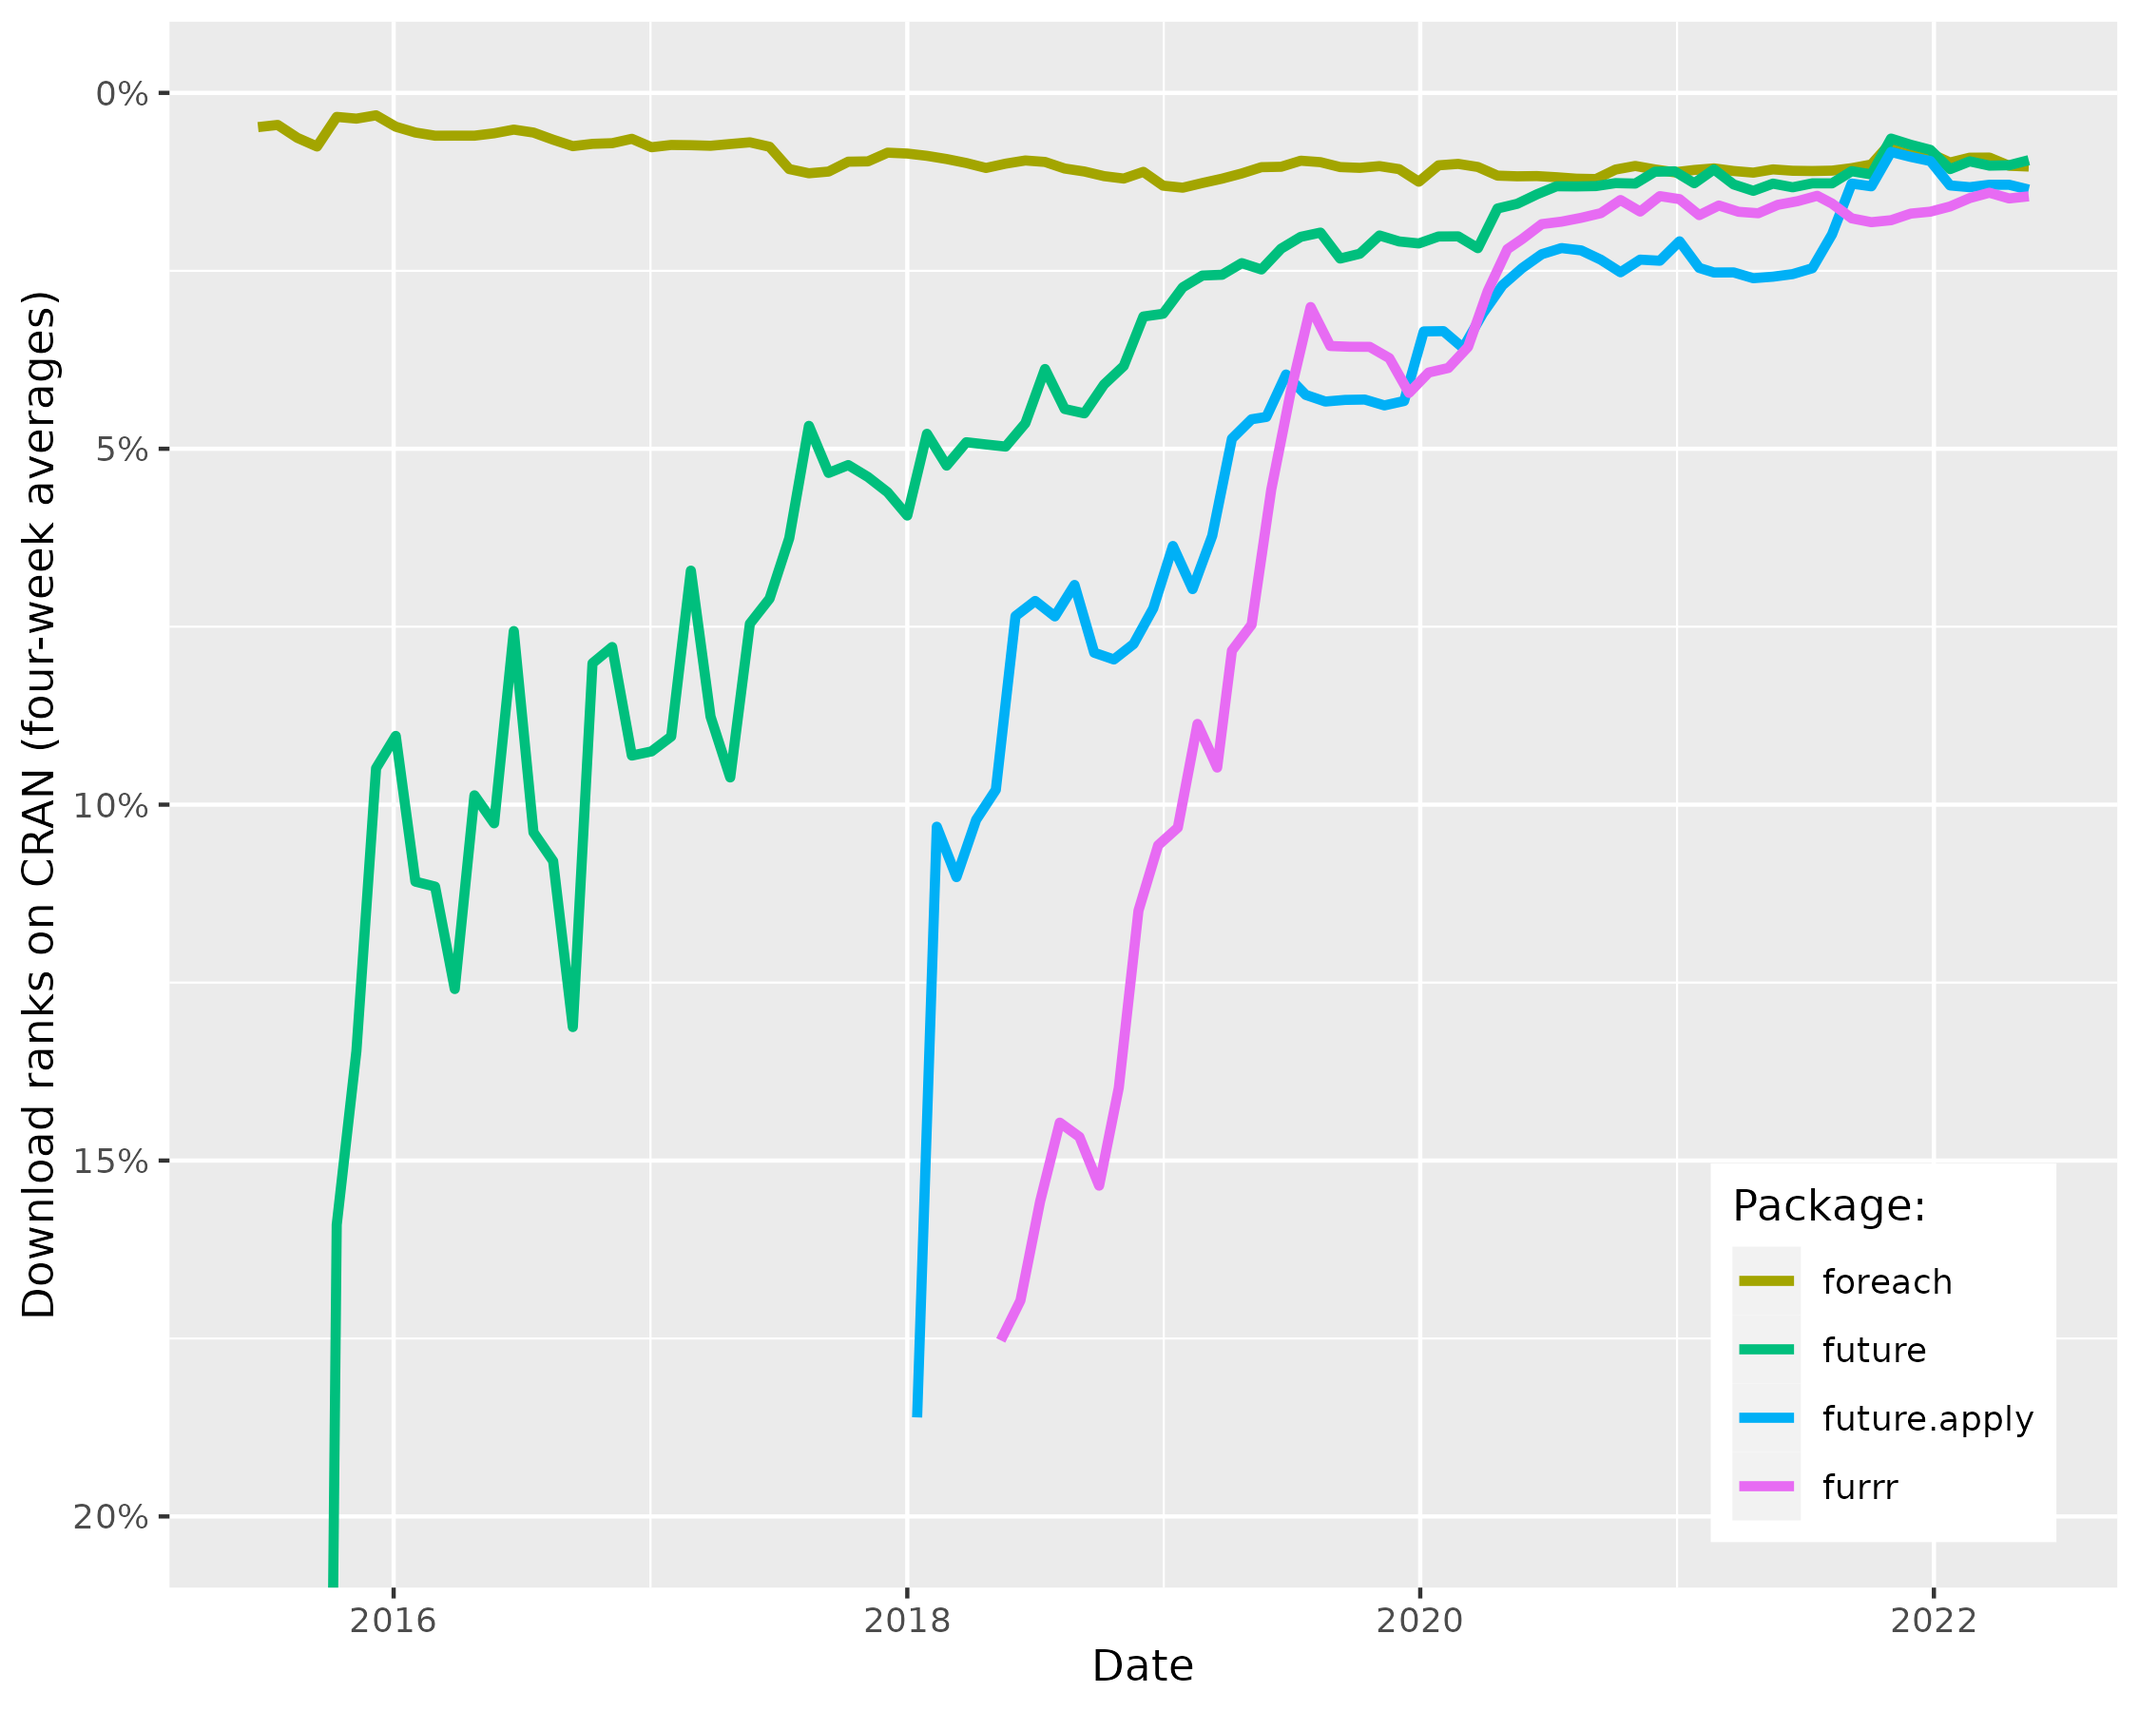
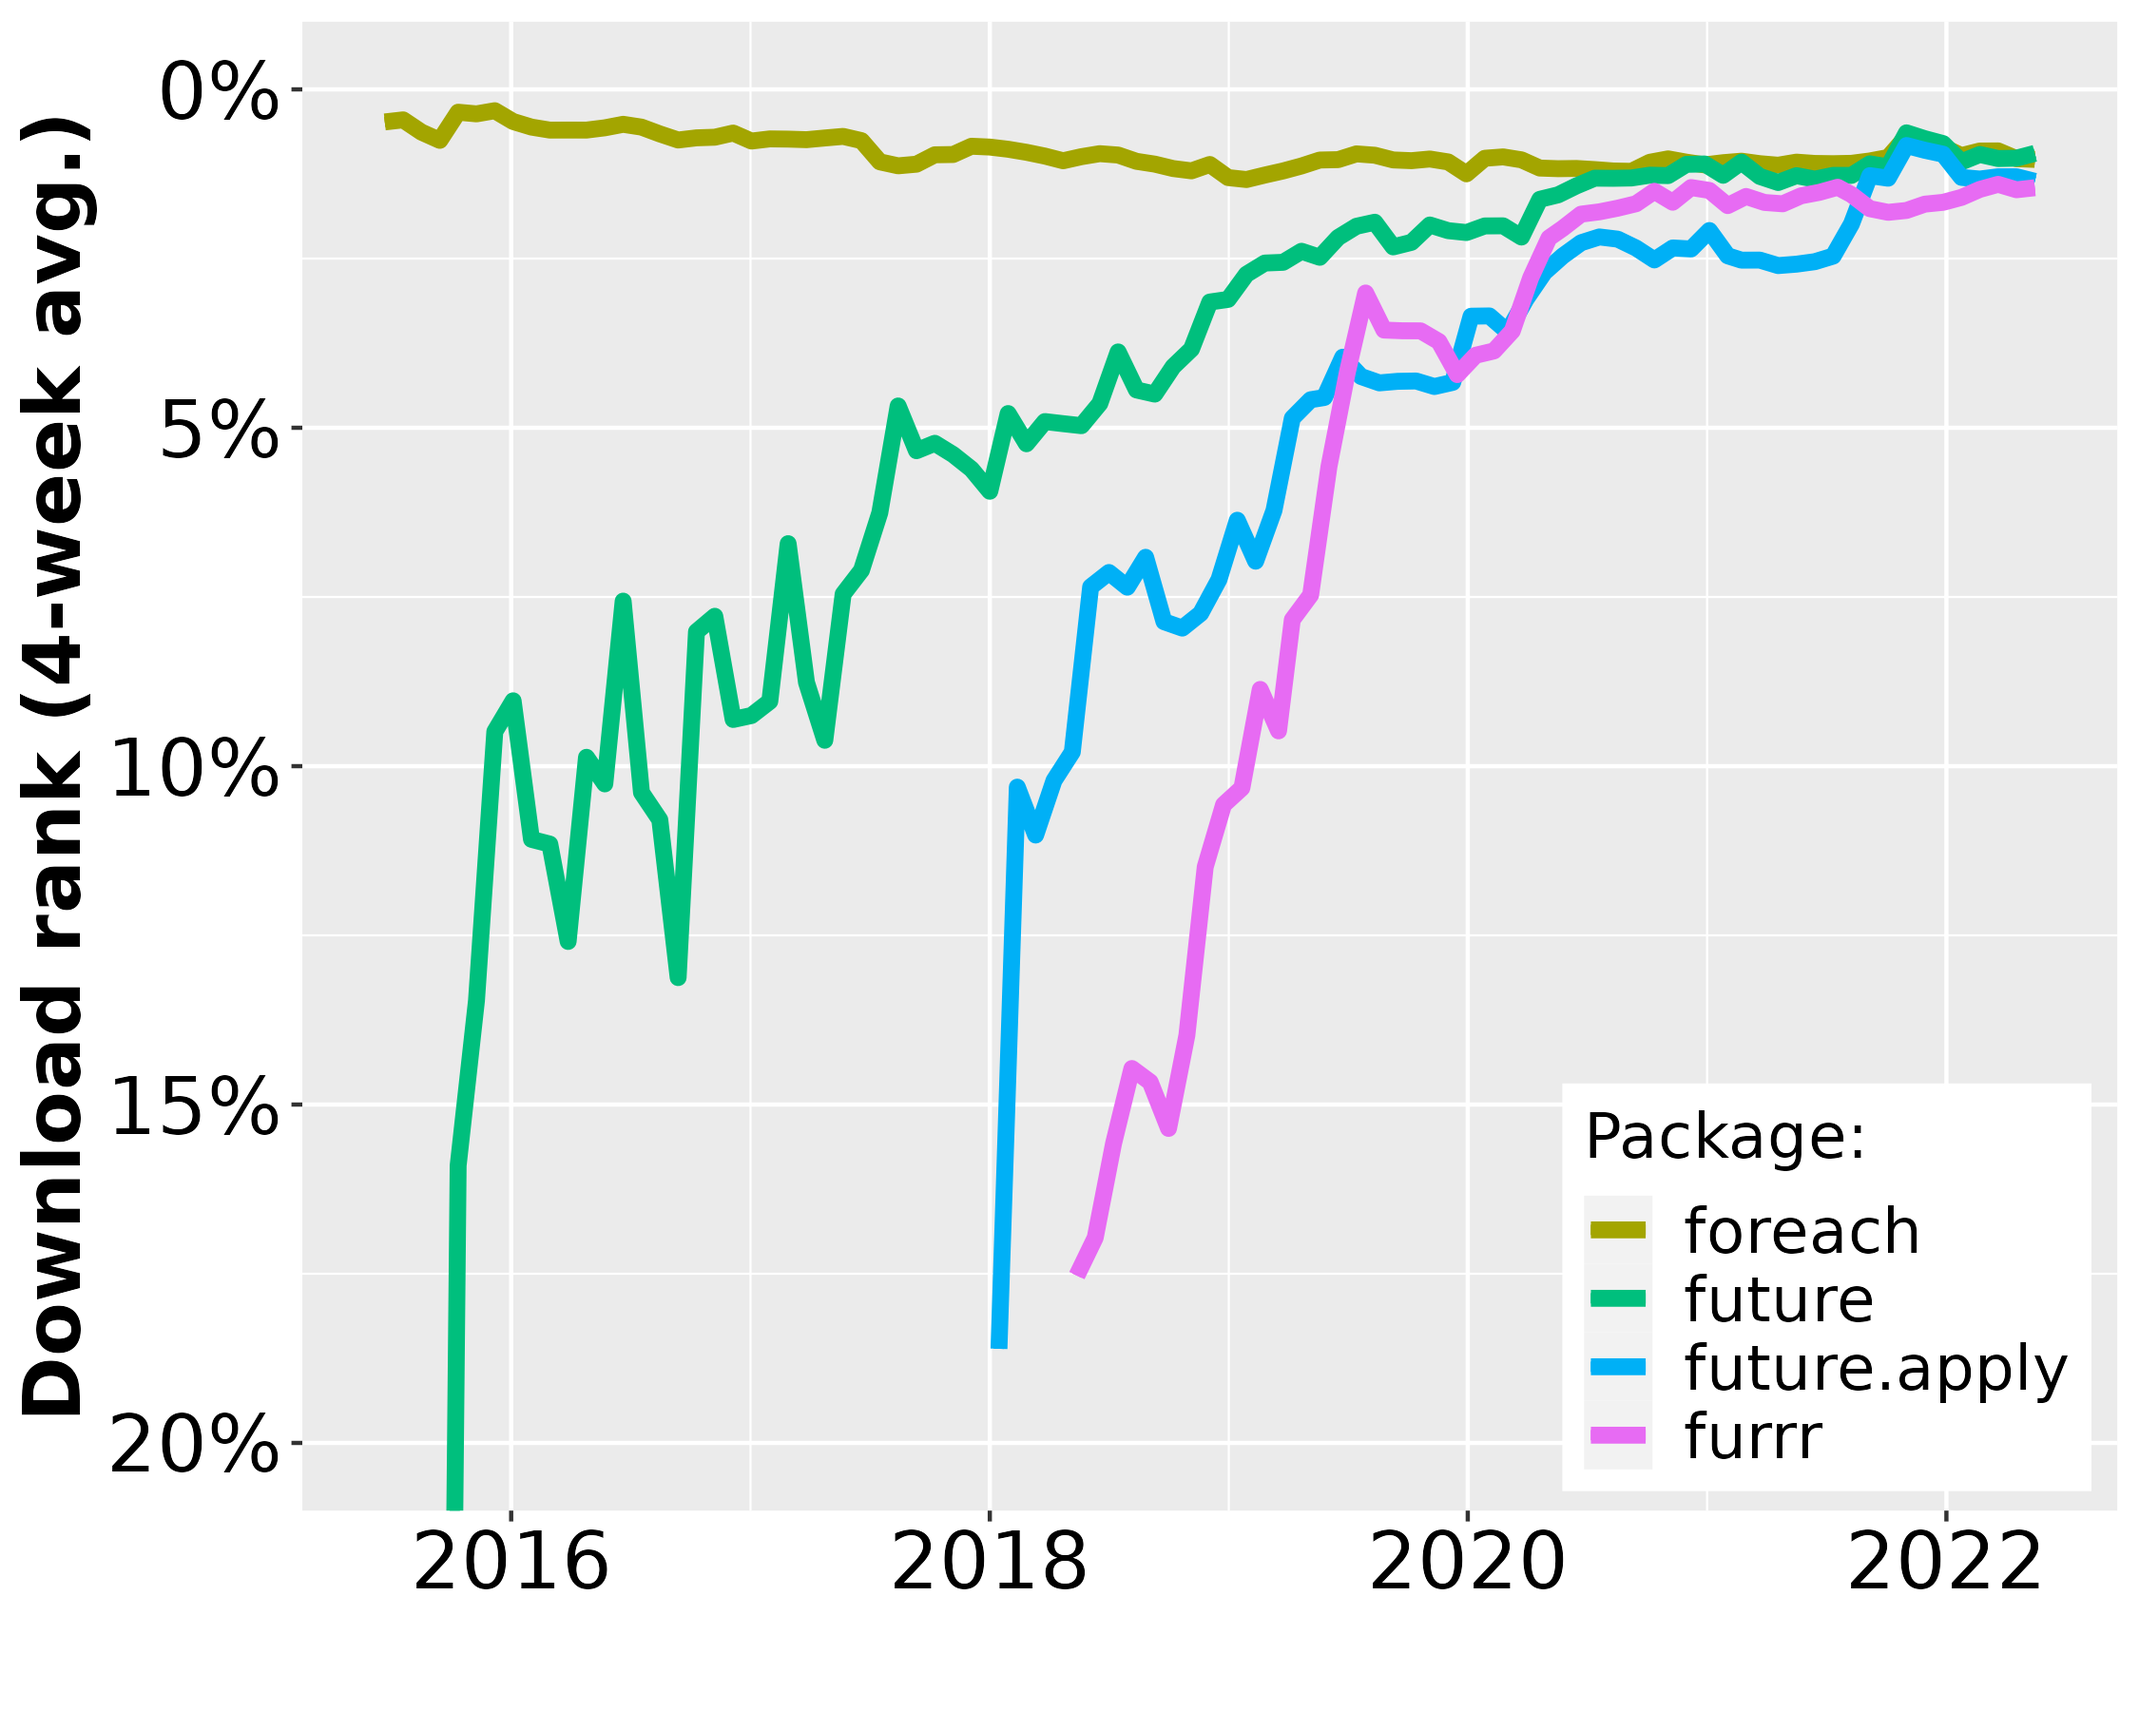
STATS: update to May 2022

diff --git a/docs/statistics.html b/docs/statistics.html
@@ -1917,24 +1917,25 @@ Packages &amp; Docs
 <div class="d-article">
 <p>Since the first CRAN release of <strong>future</strong> in June 2015,
 its uptake among end-users and package developers have grown steadily.
-During October 2021, <strong>future</strong> was among the top-1.1% most
-downloaded package on CRAN (Figure 1) and there are 210 packages on CRAN
+During May 2022, <strong>future</strong> was among the top-0.9% most
+downloaded package on CRAN (Figure 1) and there are 225 packages on CRAN
 and Bioconductor that directly depend on it (Figure 2). For map-reduce
 parallelization packages <strong>future.apply</strong> (top-1.3% most
 downloaded) and and <strong>furrr</strong> (top 1.8%), the corresponding
-number of packages are 85 and 53, respectively. If we consider recursive
-dependencies too, that is, packages that use the <strong>future</strong>
-package either directly or indirectly via another package, then 93% of
-the ~18,500 CRAN and the ~2,000 Bioconductor packages rely on the future
-framework for their processing.</p>
+number of packages are 105 and 63, respectively. If we consider
+recursive dependencies too, that is, packages that use the
+<strong>future</strong> package either directly or indirectly via
+another package, then 93% of the ~18,500 CRAN and the ~2,100
+Bioconductor packages rely on the future framework for their
+processing.</p>
 <div style="width: 100%; margin-bottom: 3ex;">
 <center>
-<img src="figures/downloads_over_time_on_CRAN.png" alt="A line graph with 'Date' on the horizontal axis and 'Download rates on CRAN (four-week averages)' on the vertical axis. The dates goes from mid 2015 to end of 2021 and the ranks for 0 to 20%. Lines for package 'foreach', 'future', 'future.apply', and 'furrr' are displayed in different colors. The foreach curve is the highest but decreases slowly, whereas the other three are rapidly increasing toward the level of foreach." style="width: 70%;"/>
+<img src="figures/downloads_over_time_on_CRAN.png" alt="A line graph with 'Date' on the horizontal axis and 'Download rates on CRAN (four-week averages)' on the vertical axis. The dates goes from mid 2015 to mid of 2022 and the ranks for 0 to 20%. Lines for package 'foreach', 'future', 'future.apply', and 'furrr' are displayed in different colors. The foreach curve is the highest but decreases slowly, whereas the other three are rapidly increasing toward the level of foreach." style="width: 70%;"/>
 </center>
 <p><em>Figure 1: The download percentile ranks for
 <strong>future</strong>, <strong>future.apply</strong>,
-<strong>furrr</strong>, and <strong>foreach</strong> average every four
-weeks. <strong>future</strong> is among the top-1.0% most downloaded
+<strong>furrr</strong>, and <strong>foreach</strong> averaged every four
+weeks. <strong>future</strong> is among the top-0.9% most downloaded
 packages on CRAN. The data are based on the RStudio CRAN mirror logs.
 There are approximately 150 million package downloads per month from the
 RStudio CRAN mirror alone. Since none of the other CRAN mirrors provide
@@ -1944,7 +1945,7 @@ installations.
 </div>
 <p>As a reference, the popular <strong>foreach</strong>, released in
 2009, was among the top-1.0% most downloaded packages during the same
-period and it has 738 reverse package dependencies on CRAN and
+period and it has 771 reverse package dependencies on CRAN and
 Bioconductor. The number of users that download <strong>future</strong>
 has grown rapidly whereas the the same number has slowly decreased for
 the <strong>foreach</strong> package (Figure 1). Similarly, the number
